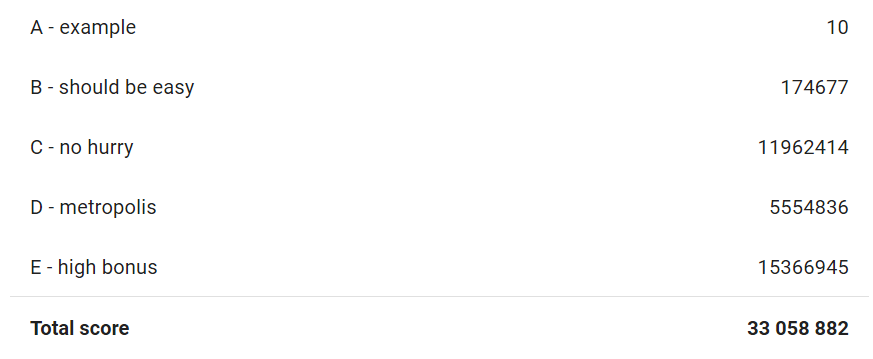
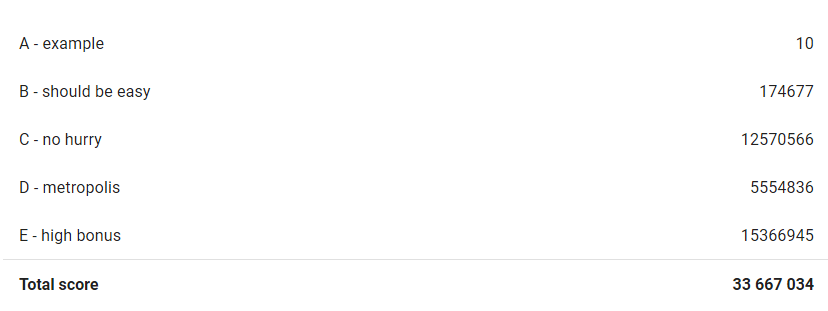
[GreedyNoBonus]fix : wrong score

diff --git a/README.md b/README.md
@@ -34,5 +34,5 @@ for r in rides {
 
 
 #### Total score 
-We reached the total score of 33 058 882 , that's a ~13% more than the last score !
+We reached the total score of 33 667 034, it's ~15% more than the last score !
 ![score](https://raw.githubusercontent.com/LDevi/GoogleHashCode2018/greedy_without_bonus/res/score/score.PNG)
